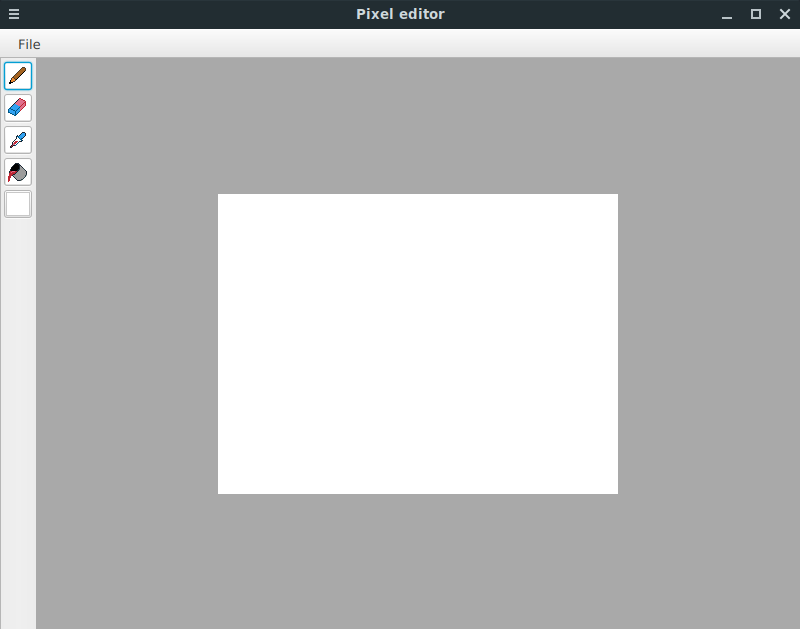
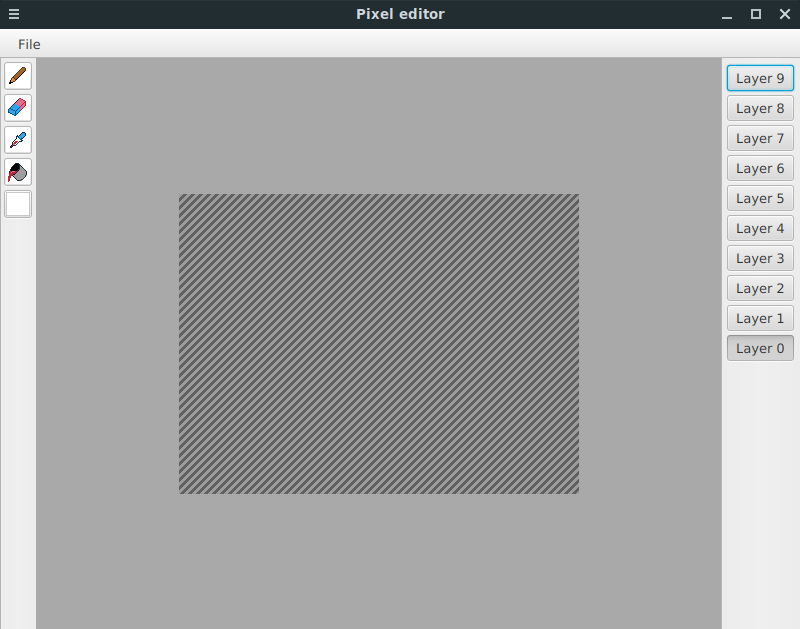
Dokumentaation päivitystä

diff --git a/pixeleditor/doc/kayttoohje.md b/pixeleditor/doc/kayttoohje.md
@@ -2,18 +2,18 @@
 
 ### Sovelluksen käynnistäminen
 
-Lataa tiedosto [pixeleditor-1.1.jar](https://github.com/tapanih/ot-harjoitustyo/releases/tag/viikko6) ja käynnistä sovellus komennolla
+Lataa tiedosto [pixeleditor-1.2.jar](https://github.com/tapanih/ot-harjoitustyo/releases/tag/loppupalautus) ja käynnistä sovellus komennolla
 ```
-java -jar pixeleditor-1.1.jar
+java -jar pixeleditor-1.2.jar
 ```
 
 ### Sovelluksen käyttö
 
-Sovellus käynnistyy päänäkymään, joka näyttää tällä hetkellä seuraavalta:
+Sovellus käynnistyy päänäkymään, jonka pitäisi näyttää seuraavalta:
 
 ![Kuvakaappaus](images/kuvakaappaus.png)
 
-Keskellä on piirtoalue, jonka koko on oletuksena 300 pikseliä leveä ja 200 pikseliä korkea. Piirtoalueen tausta näyttää toistaiseksi valkoiselta, mutta oikeasti se on läpinäkyvä. Piirtoaluetta voi muokata valitsemalla vasemmasta laidasta olevasta työkalupalkista haluamansa työkalun ja klikkaamalla tai raahaamalla hiirtä piirtoalueella. Hiiren oikealla napilla ei ole toistaiseksi mitään toiminnallisuutta. Työkalut ovat:
+Keskellä on piirtoalue, jonka koko on oletuksena 300 pikseliä leveä ja 200 pikseliä korkea. Piirtoalueen taustan raitakuvio ilmaisee läpinäkyvyyttä. Piirtoaluetta voi muokata valitsemalla vasemmasta laidasta olevasta työkalupalkista haluamansa työkalun ja klikkaamalla tai raahaamalla hiirtä piirtoalueella. Oikeasta laidasta voi valita piirtotason. Taso 0 on alimpana ja taso 9 on ylimpänä. Hiiren oikealla napilla ei ole toistaiseksi mitään toiminnallisuutta. Työkalut ovat:
 
 - **Kynätyökalu**: piirtää yhden pikselin (koko ei tällä hetkellä muokattavissa) levyisen viivan valitulla värillä.
 - **Pyyhekumi**: pyyhkii yhden pikselin (koko ei tällä hetkellä muokattavissa) levyisen viivan läpinäkyväksi.
@@ -24,8 +24,10 @@ Keskellä on piirtoalue, jonka koko on oletuksena 300 pikseliä leveä ja 200 pi
 Yläpalkista löytyy pudotusvalikko nimeltään *File*, jonka sisältämät toiminnallisuudet ovat:
 
 - **New**: Luo uuden kuvan, jonka mittasuhteet voi valita avautuvasta dialogista. Luomisen voi perua painamalla *Cancel* ja hyväksyä painamalla *Create*. Kun uusi kuva luodaan, niin vanha kuva katoaa kysymättä käyttäjältä, olisiko hän mahdollisesti halunnut tallentaa sitä.
+- **Open project**: Avaa projektitiedoston, joka sisältää tiedot piirtotasojen sisällöstä.
+- **Save project**: Tallentaa nykyiset piirtotasot projektitiedostoon.
 - **Import from...**: Tuo kuvan sovellukseen. Avattava kuvatiedosto valitaan tiedostojärjestelmän dialogista. Tuettuja tiedostomuotoja ovat PNG, BMP ja GIF. Jos tiedostoa ei voi avata, niin (toivottavasti) mitään ei tapahdu. Kun kuva tuodaan sovellukseen, niin vanha kuva katoaa kysymättä käyttäjältä, olisiko hän mahdollisesti halunnut tallentaa sitä.
 
-- **Export to..**: Vie sovelluksen haluttuun tiedostomuotoon. Tuettuja tiedostomuotoja ovat PNG, BMP, GIF ja TIFF. Tiedostomuoto valitaan ensisijaisesti valitun tiedostonimen päätteestä. Jos tiedostopäätteen haluaa Linux-henkisesti jättää pois, niin tiedostomuodon voi valita oikeassa alakulmassa olevasta pudotusvalikosta. BMP- ja GIF -formaatit eivät tue täyttä läpinäkyvyyttä, joten sovellus täyttää läpinäkyvät osuudet magentan värisiksi. Tämä tapahtuu kysymättä käyttäjältä mitään. Jos tiedoston tallennuksen aikana tapahtuu jokin ongelma, niin käyttäjälle ei myöskään kerrota mitään.
+- **Export to..**: Vie sovelluksen haluttuun tiedostomuotoon. Tuettuja tiedostomuotoja ovat PNG, BMP, GIF ja TIFF. Tiedostomuoto valitaan ensisijaisesti valitun tiedostonimen päätteestä. Jos tiedostopäätteen haluaa Linux-henkisesti jättää pois, niin tiedostomuodon voi valita oikeassa alakulmassa olevasta pudotusvalikosta. BMP- ja GIF -formaatit eivät tue täyttä läpinäkyvyyttä, joten sovellus täyttää läpinäkyvät osuudet magentan värisiksi. Tämä tapahtuu kysymättä käyttäjältä mitään. Jos tiedoston tallennuksen aikana tapahtuu jokin ongelma, niin käyttäjälle näytetään virheilmoitus.
 
 - **Exit**: Sulkee sovelluksen sen kummempia kyselemättä. Tallenna muutokset ennen sulkemista!

diff --git a/pixeleditor/doc/testausdokumentti.md b/pixeleditor/doc/testausdokumentti.md
@@ -1,6 +1,6 @@
 # Testausdokumentti
 
-Ohjelma testaus on toteutettu automatisoiduin yksikkö- ja integraatiotestein JUnitilla sekä manuaalisesti tapahtuneilla järjestelmätason testeillä.
+Ohjelma testaus on toteutettu automatisoiduilla yksikkö- ja integraatiotesteillä JUnitia käyttäen. Järjestelmätason testaus on toteutettu manuaalisesti.
 
 ## Yksikkö- ja integraatiotestaus
 
@@ -8,7 +8,7 @@ Ohjelma testaus on toteutettu automatisoiduin yksikkö- ja integraatiotestein JU
 
 Suurin osa sovelluslogiikan testeistä käyttävät *JavaFX JUnit-4 Testrunner*- kirjastoa, jonka avulla *@TestInJfxThread* annotaatiolla merkityt testit suoritetaan JavaFX-säikeessä. Tämä mahdollistaa esimerkiksi *Canvas*-olion käsittelyn testien aikana.
 
-Luokassa [FileServiceTest](https://github.com/tapanih/ot-harjoitustyo/blob/master/pixeleditor/src/test/java/pixeleditor/domain/FileServiceTest.java) testataan tiedostojen käsittelyä. Luokka testaa tiedostojen avaamista käyttämällä kansiossa *src/test/resources/images* sijaitsevia kuvatiedostoja. Tiedostoon kirjoittamisen testauksessa käytettävät tilapäiset tiedostot luodaan JUnitin [TemporaryFolder](https://junit.org/junit4/javadoc/4.12/org/junit/rules/TemporaryFolder.html) -rulen avulla.
+Luokassa [FileServiceTest](https://github.com/tapanih/ot-harjoitustyo/blob/master/pixeleditor/src/test/java/pixeleditor/domain/FileServiceTest.java) testataan tiedostojen käsittelyä. Luokka testaa kuvatiedostojen avaamista käyttämällä kansiossa *src/test/resources/images* sijaitsevia kuvatiedostoja. Testauksessa käytettävät tilapäiset tiedostot luodaan JUnitin [TemporaryFolder](https://junit.org/junit4/javadoc/4.12/org/junit/rules/TemporaryFolder.html) -säännön avulla.
 
 Luokissa [BucketToolTest](https://github.com/tapanih/ot-harjoitustyo/blob/master/pixeleditor/src/test/java/pixeleditor/domain/tools/BucketFillToolTest.java), [ColorPickerToolTest](https://github.com/tapanih/ot-harjoitustyo/blob/master/pixeleditor/src/test/java/pixeleditor/domain/tools/ColorPickerToolTest.java), [EraserToolTest](https://github.com/tapanih/ot-harjoitustyo/blob/master/pixeleditor/src/test/java/pixeleditor/domain/tools/EraserToolTest.java) ja [PenToolTest](https://github.com/tapanih/ot-harjoitustyo/blob/master/pixeleditor/src/test/java/pixeleditor/domain/tools/PenToolTest.java) testataan eri työkalujen toimintaa. Luokissa määritellyt testit ovat suurimmaksi osaksi integraatiotestejä, jotka hyödyntävät ja testaavat luokkia [CanvasService](https://github.com/tapanih/ot-harjoitustyo/blob/master/pixeleditor/src/main/java/pixeleditor/domain/CanvasService.java) ja [ColorService](https://github.com/tapanih/ot-harjoitustyo/blob/master/pixeleditor/src/main/java/pixeleditor/domain/ColorService.java). Näille luokille ei ole tämän takia määritelty omia testiluokkia.
 
@@ -16,9 +16,9 @@ Luokkaa [ToolService](https://github.com/tapanih/ot-harjoitustyo/blob/master/pix
 
 ### Testikattavuus
 
-Käyttöliittymää lukuunottamatta sovelluksen testauksen rivikattavuus on 85% ja haaraumakattavuus on 71%.
+Käyttöliittymää lukuunottamatta sovelluksen rivikattavuus on 92% ja haaraumakattavuus on 73%.
 
-TODO: Kuva testikattavuudesta
+![Testikattavauus](images/testikattavuus.png)
 
 ## Järjestelmätestaus
 
@@ -26,4 +26,4 @@ Sovelluksen järjestelmätestaus on suoritettu manuaalisesti käymällä läpi m
 
 ## Sovelluksen laatuongelmat
 
-Sovellus ei anna tällä hetkellä ollenkaan virheilmoituksia.
+Sovelluksen antamat virheilmoitukset eivät ole kovin kuvaavia. Projektin avaaminen antaa mystisen varoituksen terminaaliin jostain Javan syövereistä.

diff --git a/pixeleditor/doc/vaatimusmaarittely.md b/pixeleditor/doc/vaatimusmaarittely.md
@@ -4,28 +4,24 @@
 
 Sovellus on yksinkertainen piirto-ohjelma, jolla voi muokata ja tallentaa kuvia muutamassa kuvaformaatissa.
 
-### Suunnitellut toiminnallisuudet
+### Toteutetut toiminnallisuudet
 
 - Työkalut:
-    - kynä (tehty)
-    - pyyhekumi (tehty)
-    - värin valinta (tehty)
-    - sankkotäyttö (tehty)
-- Työkalujen valinta painamalla sivupalkissa olevia nappeja (tehty)
-- Uuden kuvan luominen ja sen koon valinta (tehty)
-- Kuvan tallennus eri kuvaformaateihin
-    - PNG (tehty)
-    - BMP (tehty, mutta läpinäkyvyyden kanssa ongelmia)
-    - GIF (tehty, mutta läpinäkyvyyden kanssa ongelmia)
-    - TIFF (tehty)
-- Kuvan tuominen sovellukseen eri kuvaformaateista:
-    - PNG (tehty)
-    - BMP (tehty, mutta läpinäkyvyyden kanssa ongelmia)
-    - GIF (tehty, mutta läpinäkyvyyden kanssa ongelmia)
-    - TIFF
+    - kynä
+    - pyyhekumi
+    - värin valinta
+    - sankkotäyttö
+- Työkalujen valinta painamalla sivupalkissa olevia nappeja
+- Uuden kuvan luominen ja sen koon valinta
+- Projektin tallentaminen ja avaaminen
+- Kuvan tallennus eri kuvaformaateihin (PNG, BMP; GIF, TIFF)
+- Kuvan tuominen sovellukseen eri kuvaformaateista (PNG, BMP, TIFF)
+- Yksinkertainen piirtotasosysteemi
 
 ### Jatkokehitysideoita
 
-Näitä toteutetaan, jos aikaa riittää.
+Sovellusta voisi sen luonteen vuoksi parantaa loputtomasti. Tässä muutamia ideoita:
+
+- Työkalujen asetusten säätö (esim. pensselin koko)
 - Historia (undo & redo)
 - Zoomaussäädin

diff --git a/pixeleditor/doc/arkkitehtuuri.md b/pixeleditor/doc/arkkitehtuuri.md
@@ -73,3 +73,11 @@ Värin valinta käyttää JavaFX:n valmista ColorPicker-luokkaa.
 #### Sankkotäyttö
 
 Sankkotäyttö käyttää jonoon perustuvaa *flood-fill*-algoritmin toteutusta. Algoritmista löytyy lisätietoja Wikipediasta: https://en.wikipedia.org/wiki/Flood_fill
+
+### Pysyväistallennus
+
+Projektin tallennusformaatti on ZIP-tiedosto, joka sisältää piirtotasot PNG-kuvaformaatissa. Näiden kuvatiedostojen nimet ovat numeroitu alkaen nimestä *layer0.png*. Tasot voi myös litistää yhdeksi kuvatiedostoksi, jonka formaatti voi olla PNG, BMP, GIF tai TIFF.
+
+## Ohjelman rakenteeseen jääneet heikkoudet
+
+Ohjelmassa on kohtuullinen verran kovakoodattuja arvoja ja erityisesti tasosysteemin toteutus on hyvin jäykkä. Mahdollinen jatkokehitys vaatii paljon refaktorointia.

diff --git a/pixeleditor/doc/tuntikirjanpito.md b/pixeleditor/doc/tuntikirjanpito.md
@@ -14,4 +14,8 @@
 |27.4 |6h | Refaktoroitu tiedostojen käsittelyä ja kirjoitettu niille testit. Lisätty tuki uusille kuvaformaateille.
 |28.4 |8h | Korjattu Javadoc. Kirjoitettu dokumentaatiota ja  tehty GitHub-release
 |4.5 | 2h | Testausdokumentin kirjoittamista ja virheiden käsittelyä.
-| Yht. | 59h | |
+|7.5 | 2h | Lisätty piirtotasot.
+|8.5 | 2h | Lisätty mahdollisuus tallentaa piirtotasot projektitiedostoon.
+|9.5 | 3h  | Dokumentaatiota ja testausta.
+|10.5 | 4h | Viimeistelyä ja loppupalautus.
+| Yht. | 70h | |
